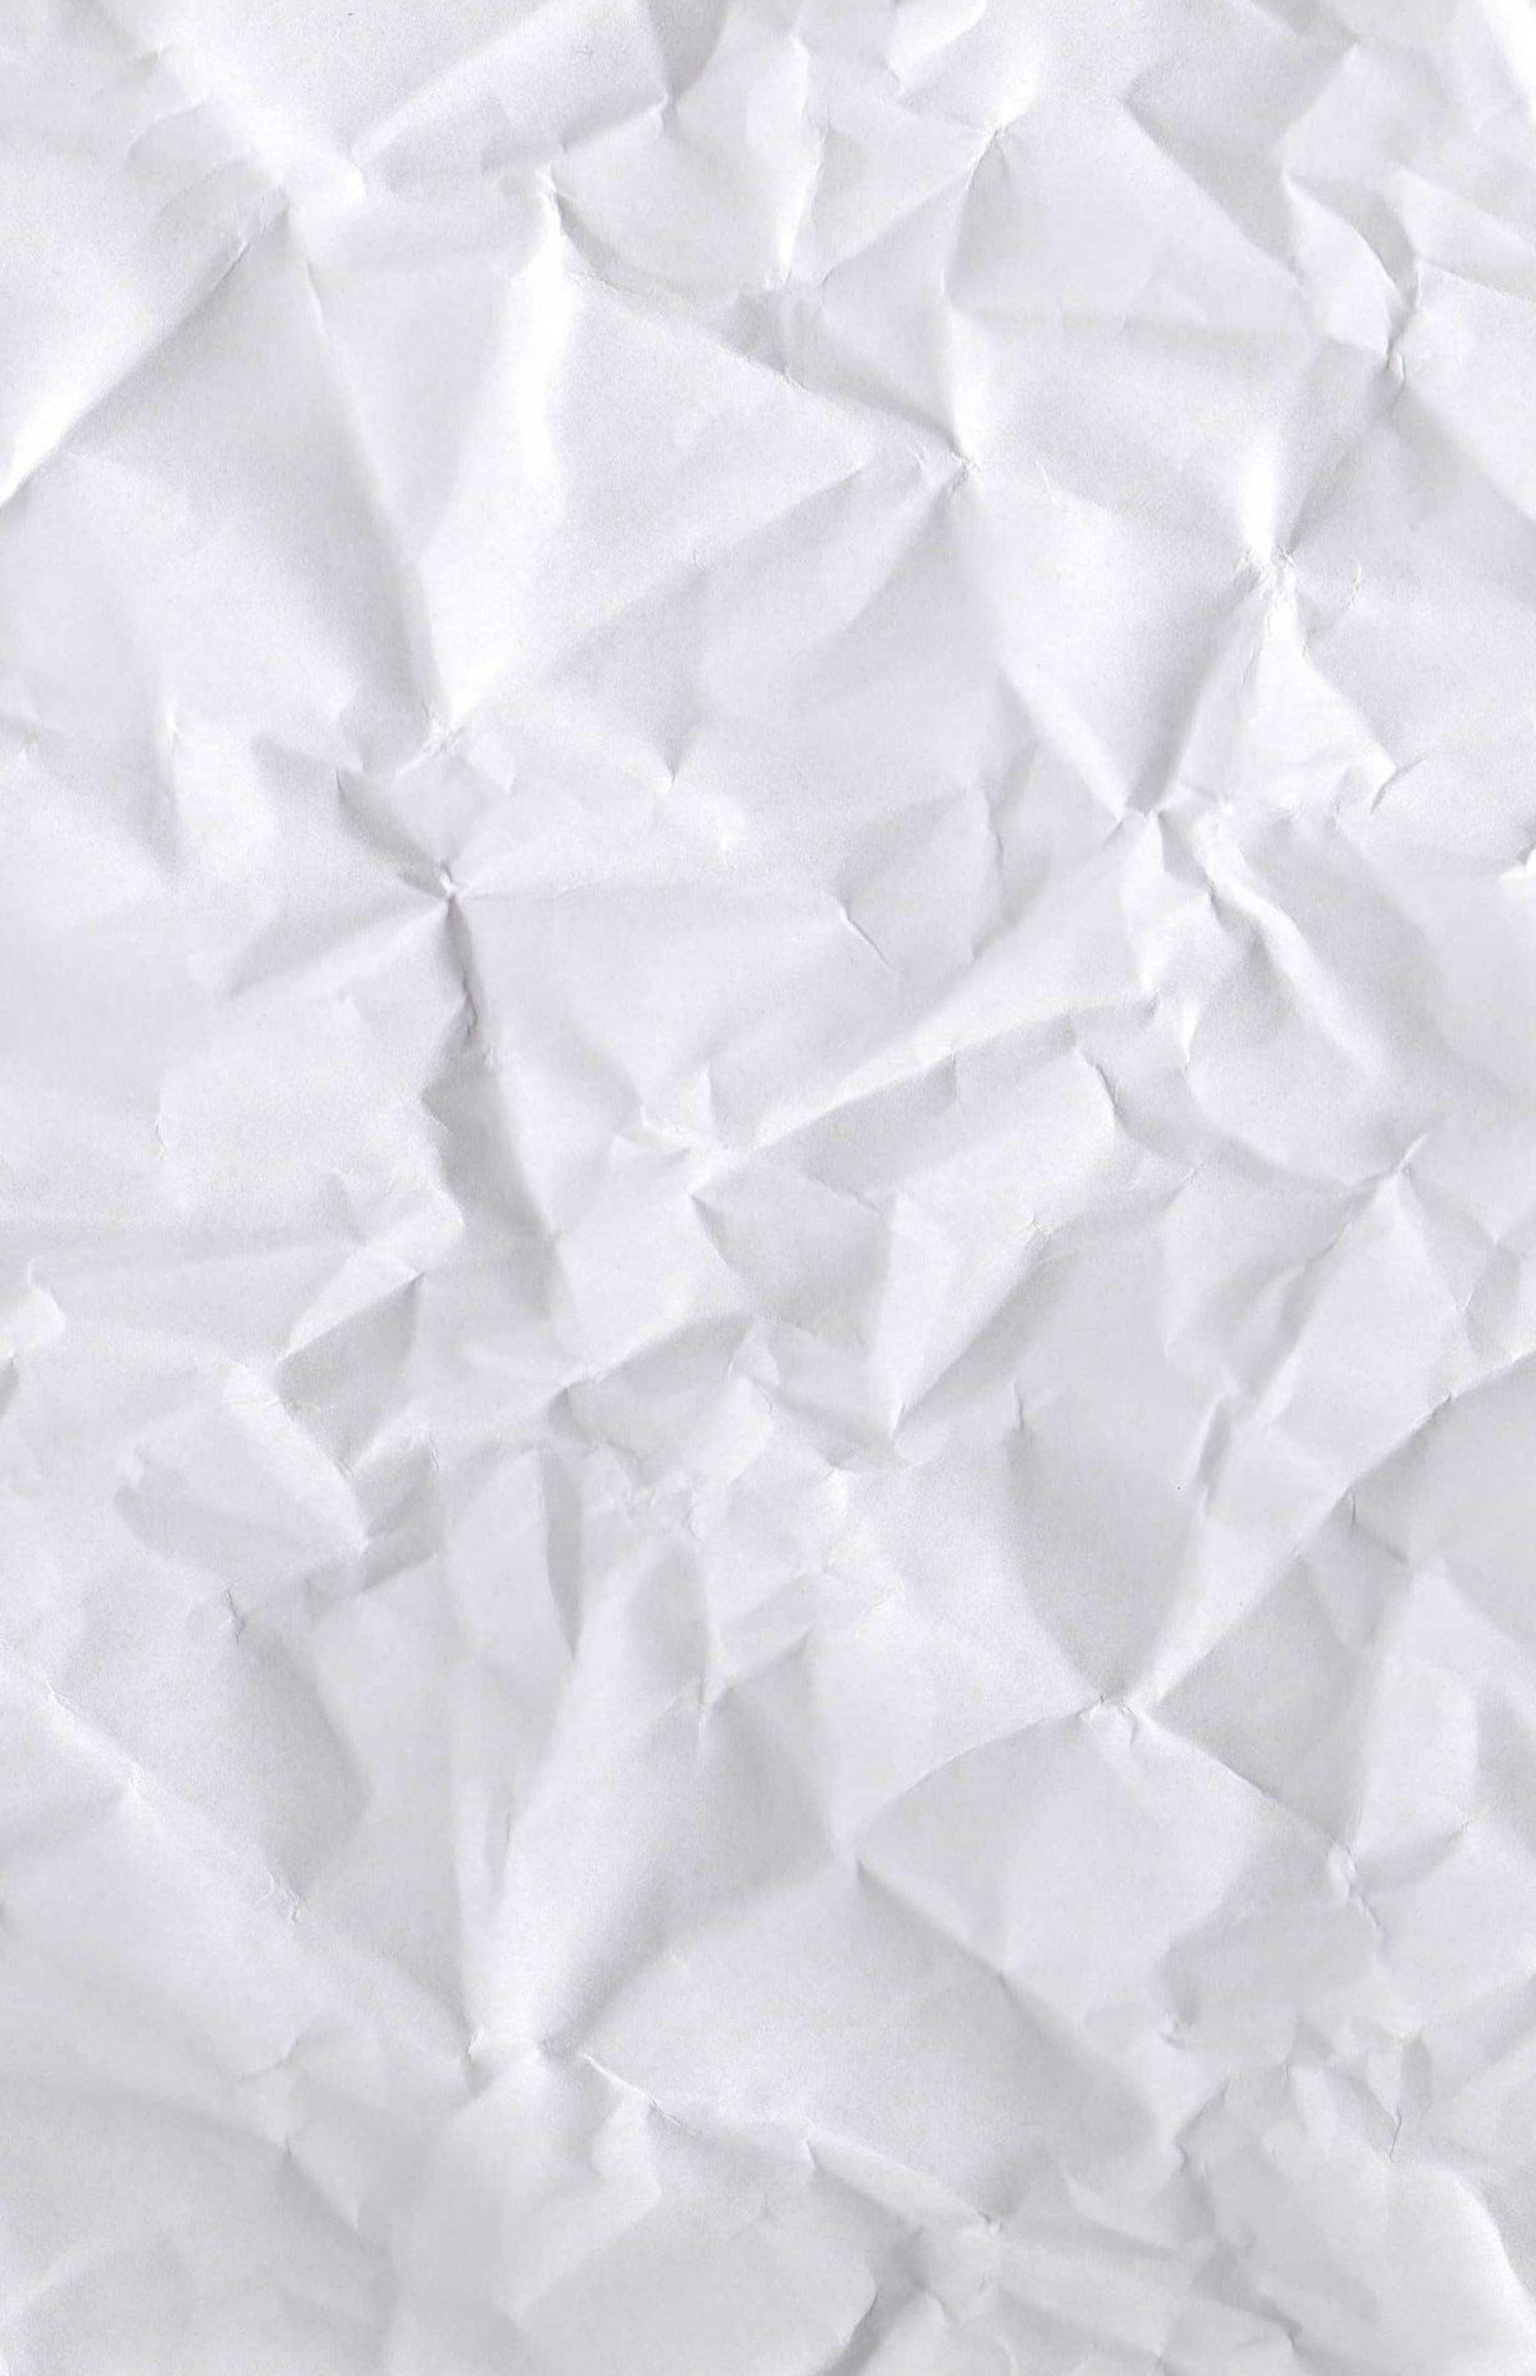
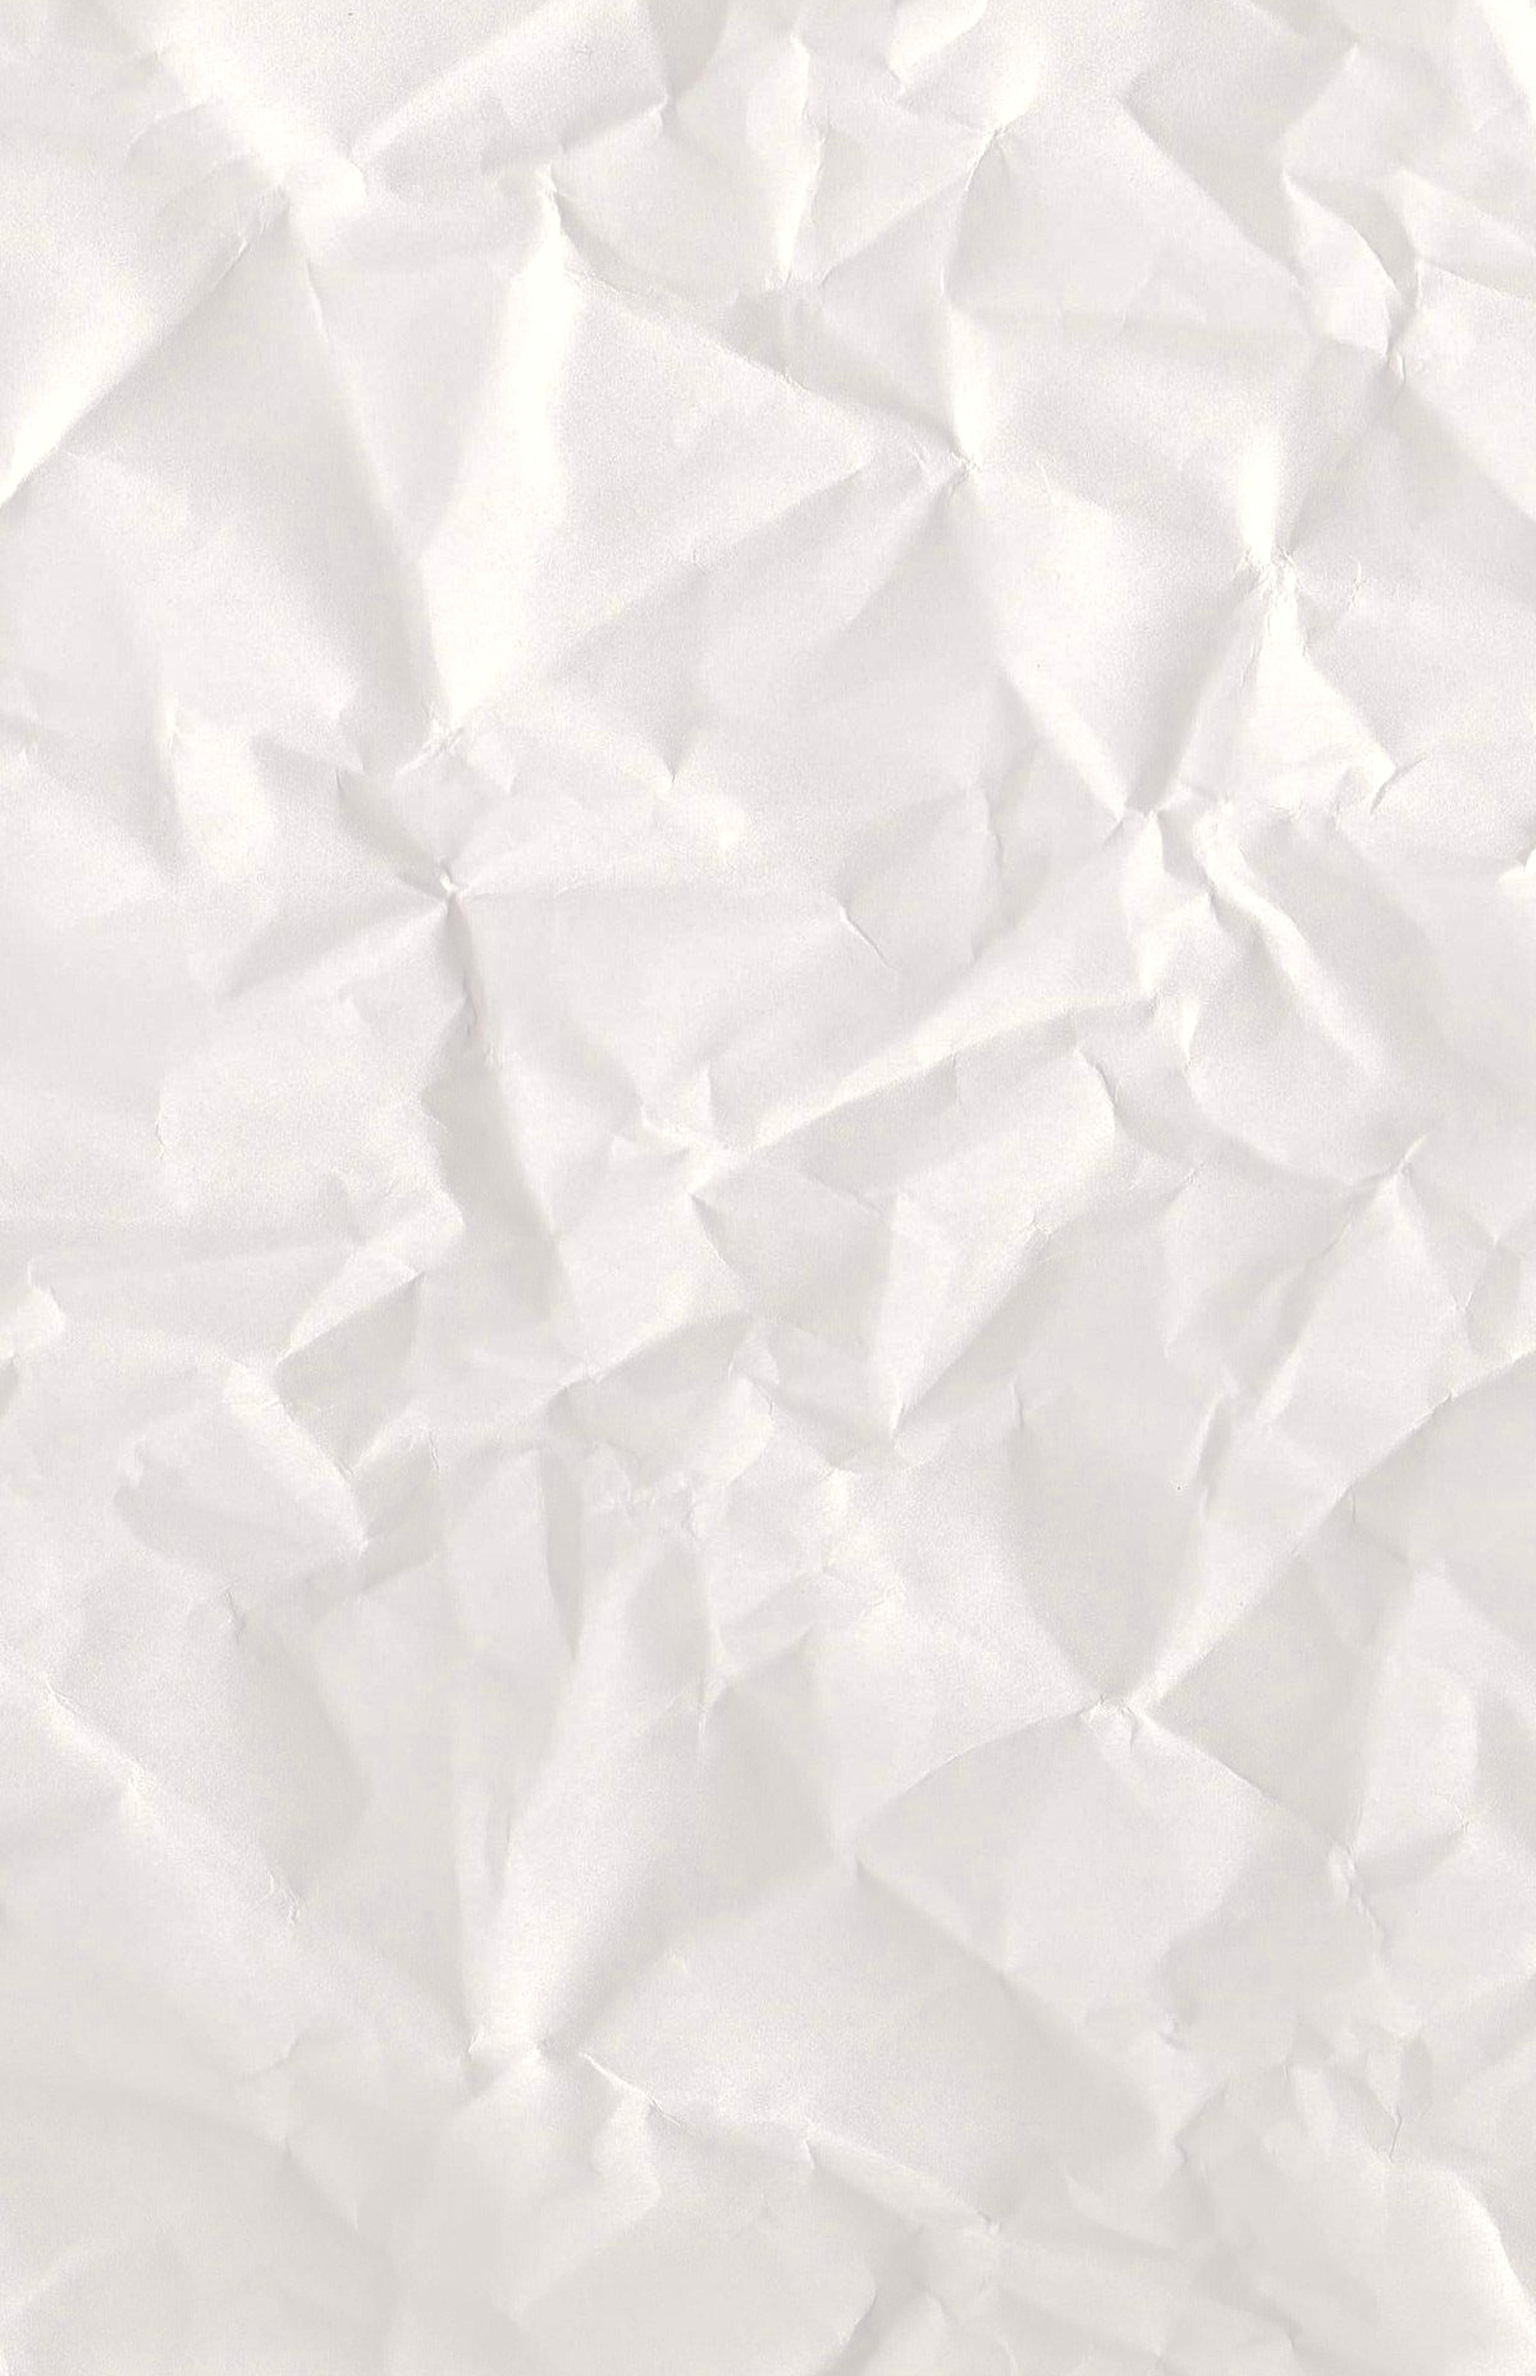
edit bg color

diff --git a/scm-music-player-github/scm.html b/scm-music-player-github/scm.html
@@ -48,7 +48,7 @@ body{overflow:hidden; background:transparent; }
 	});
 	url = url.replace(/(\%27|')/g, '%2527');
 	/* EDIT BACKGROUND COLOR */
-	document.write('<iframe src="javascript:location.replace(\''+url+'\');" frameborder="0" id="content" allowtransparency="true" style="background-image: url(/images/paper1.jpeg); background-size: cover;" name="content"></iframe>');
+	document.write('<iframe src="javascript:location.replace(\''+url+'\');" frameborder="0" id="content" allowtransparency="true" style="background-image: url(/images/paper2.jpg); background-size: cover;" name="content"></iframe>');
 })();
 </script>
 </div>
